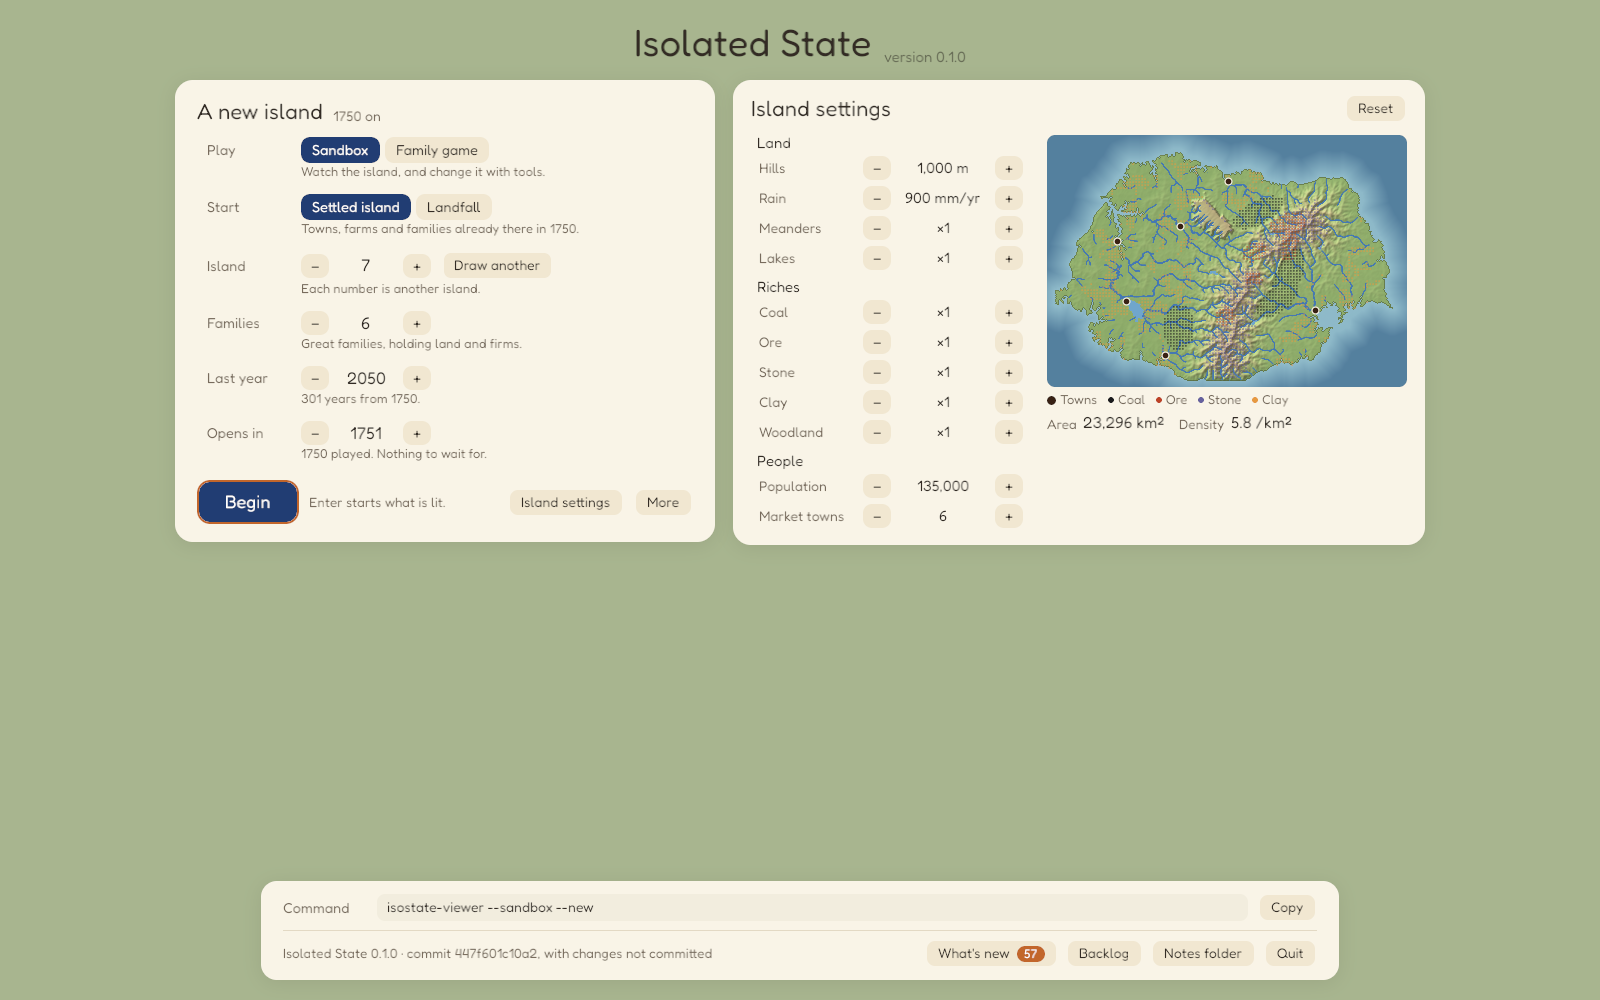
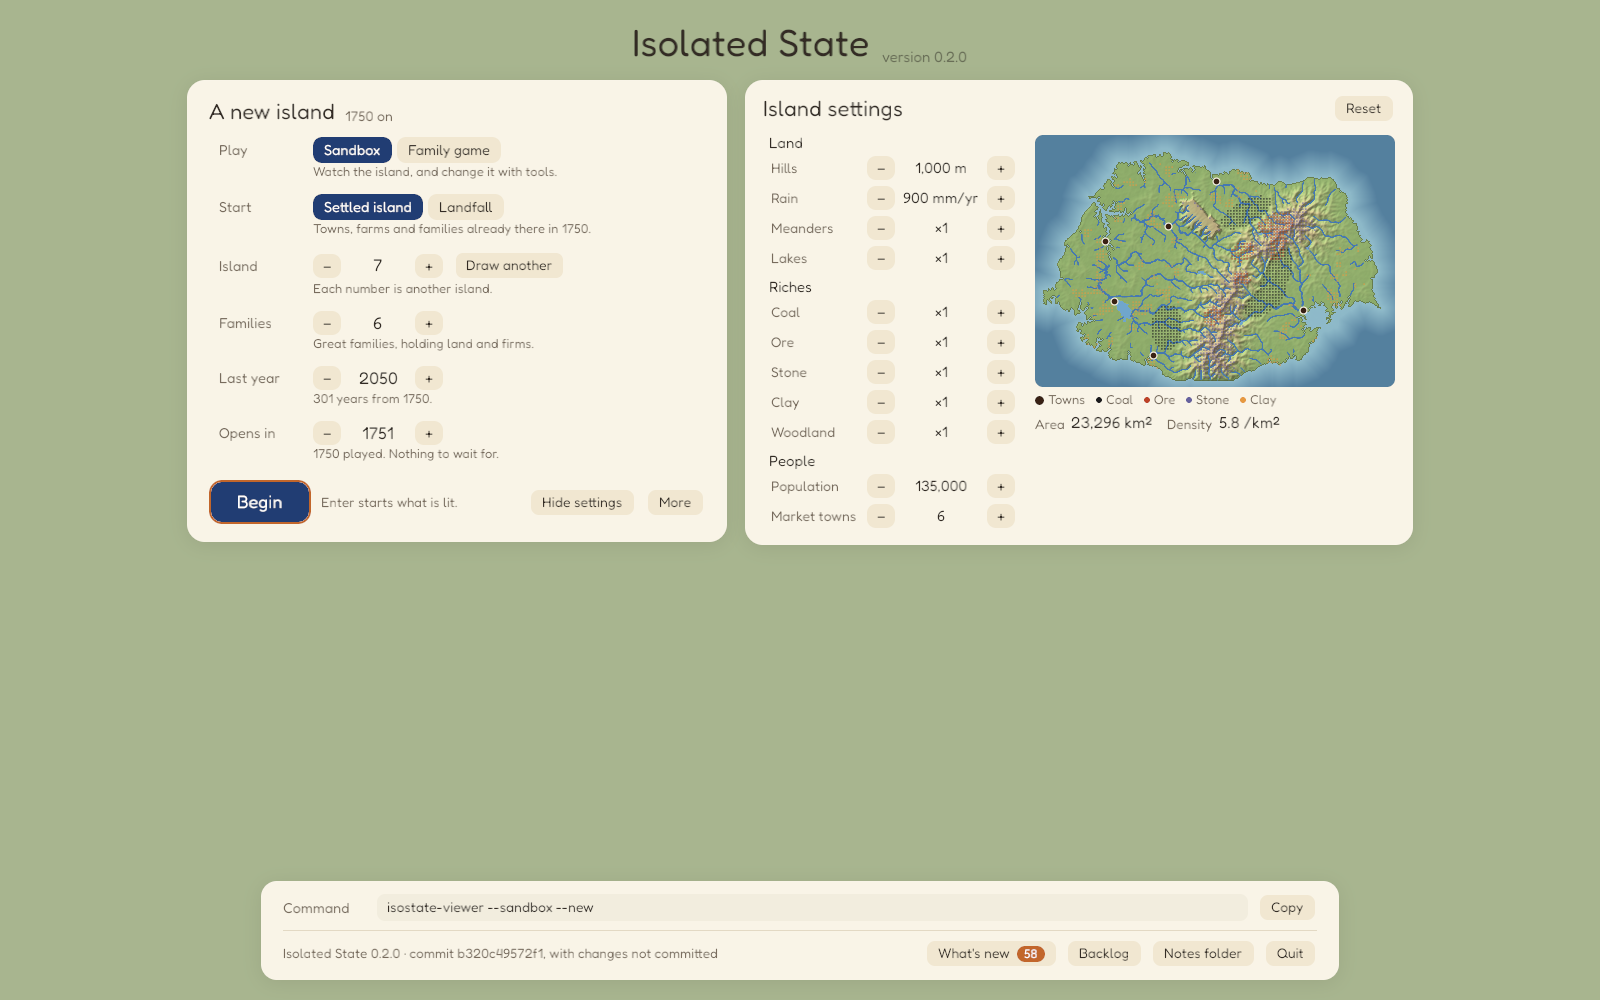
Viewer: the island's settings' button says Hide settings while they are open, the settings' card fits a window 1280 wide, and the README's picture is the page as it now is

diff --git a/crates/isostate-viewer/src/start_page.rs b/crates/isostate-viewer/src/start_page.rs
@@ -892,7 +892,7 @@ struct SaidText;
 struct NewCount;
 /// The word on More's button: More, or Less while it is open.
 #[derive(Component)]
-struct MoreWord;
+struct MoreWord(bool);
 /// The parts of the page whose heights decide how tall the list of saved games may be.
 #[derive(Component, Clone, Copy, PartialEq)]
 enum Fits {
@@ -1171,11 +1171,11 @@ fn new_card(row: &mut ChildSpawnerCommands, f: &Handle<Font>) {
             b.spawn(Node { flex_grow: 1.0, ..default() });
             // the island's settings, folded away until asked for, beside the new island
             b.spawn((ui_button(), BackgroundColor(BTN), BorderColor::all(Color::NONE), Interaction::default(), FocusPolicy::Block, ui::Hoverable, Focusable(Focus::Island), Press::Island)).with_children(|m| {
-                m.spawn(ui::text(f, "Island settings", 14.0, INK));
+                m.spawn((ui::text(f, "Island settings", 14.0, INK), MoreWord(true)));
             });
             // More, folded away under the cards: the land, a season held, the window, the map view
             b.spawn((ui_button(), BackgroundColor(BTN), BorderColor::all(Color::NONE), Interaction::default(), FocusPolicy::Block, ui::Hoverable, Focusable(Focus::More), Press::More)).with_children(|m| {
-                m.spawn((ui::text(f, "More", 14.0, INK), MoreWord));
+                m.spawn((ui::text(f, "More", 14.0, INK), MoreWord(false)));
             });
         });
     });
@@ -1217,7 +1217,7 @@ fn island_card(row: &mut ChildSpawnerCommands, f: &Handle<Font>, map: Handle<Ima
                 b.spawn((ui::text(f, "Reset", 14.0, INK), tip("Reset", RESET_SAYS)));
             });
         });
-        c.spawn(Node { column_gap: Val::Px(16.0), align_items: AlignItems::FlexStart, ..default() }).with_children(|body| {
+        c.spawn(Node { column_gap: Val::Px(12.0), align_items: AlignItems::FlexStart, ..default() }).with_children(|body| {
             body.spawn(Node { flex_direction: FlexDirection::Column, row_gap: Val::Px(0.0), ..default() }).with_children(|col| {
                 for (part, name) in GROUPS {
                     col.spawn((ui::text(f, name, 15.0, INK), Node { margin: UiRect::new(Val::Px(6.0), Val::Px(0.0), Val::Px(5.0), Val::Px(1.0)), ..default() }, GroupHead(part)));
@@ -1262,7 +1262,7 @@ fn setting_row(p: &mut ChildSpawnerCommands, f: &Handle<Font>, field: Field) {
         FieldRow(field),
     ))
     .with_children(|r| {
-        r.spawn(Node { width: Val::Px(96.0), flex_shrink: 0.0, ..default() }).with_children(|l| {
+        r.spawn(Node { width: Val::Px(88.0), flex_shrink: 0.0, ..default() }).with_children(|l| {
             l.spawn((ui::text(f, field.label(), 14.0, MUTED), setting_tip(i)));
         });
         r.spawn((Node { align_items: AlignItems::Center, column_gap: Val::Px(4.0), ..default() }, FieldBox(field)));
@@ -1322,7 +1322,7 @@ fn lay_field(p: &mut ChildSpawnerCommands, f: &Handle<Font>, field: Field, c: &C
         // (a setting's value is in the colour of what is chosen while it differs from the usual island's)
         let (width, size, ink) = match field {
             Field::Size => (118.0, 17.0, INK),
-            Field::Isle(i) => (96.0, 15.0, if c.island_said().get(i).is_some() { CHOSEN } else { INK }),
+            Field::Isle(i) => (84.0, 15.0, if c.island_said().get(i).is_some() { CHOSEN } else { INK }),
             _ => (64.0, 17.0, INK),
         };
         p.spawn(Node { min_width: Val::Px(width), justify_content: JustifyContent::Center, ..default() }).with_children(|v| {
@@ -1535,7 +1535,7 @@ fn draw(
     boxes: Query<(Entity, &FieldBox)>,
     mut lines: Query<(&mut Text, &FieldLine), (Without<CommandText>, Without<SaidText>, Without<MoreWord>)>,
     mut command: Query<&mut Text, (With<CommandText>, Without<SaidText>, Without<MoreWord>)>,
-    mut more_word: Query<&mut Text, (With<MoreWord>, Without<SaidText>)>,
+    mut more_word: Query<(&mut Text, &MoreWord), Without<SaidText>>,
     mut said: Query<(&mut Text, &mut Node), (With<SaidText>, Without<CommandText>)>,
     mut more: Query<&mut Node, (With<MoreCard>, Without<SaidText>, Without<FieldRow>)>,
     mut rows: Query<(&mut Node, &FieldRow), (Without<SaidText>, Without<MoreCard>)>,
@@ -1569,8 +1569,17 @@ fn draw(
             n.display = display;
         }
     }
-    for mut t in &mut more_word {
-        t.0 = if page.more { "Less" } else { "More" }.to_string();
+    // (the island's settings' button says Hide settings while they are open, as More says Less)
+    for (mut t, w) in &mut more_word {
+        let word = match (w.0, if w.0 { page.island } else { page.more }) {
+            (true, true) => "Hide settings",
+            (true, false) => "Island settings",
+            (false, true) => "Less",
+            (false, false) => "More",
+        };
+        if t.0 != word {
+            t.0 = word.to_string();
+        }
     }
     for (fo, mut b) in &mut rings {
         *b = BorderColor::all(if fo.0 == page.focus { FOCUS } else { Color::NONE });
